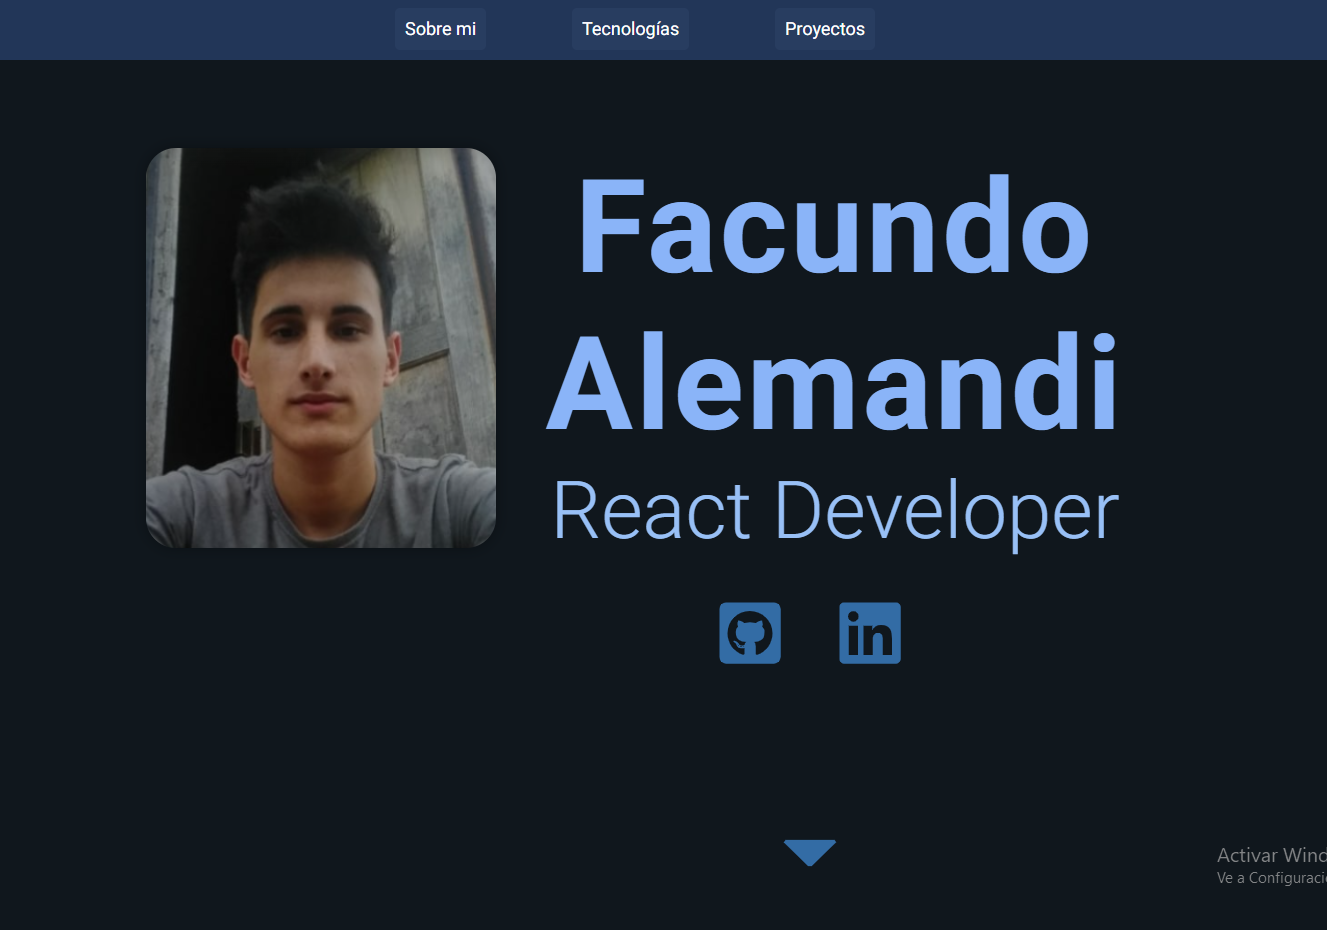
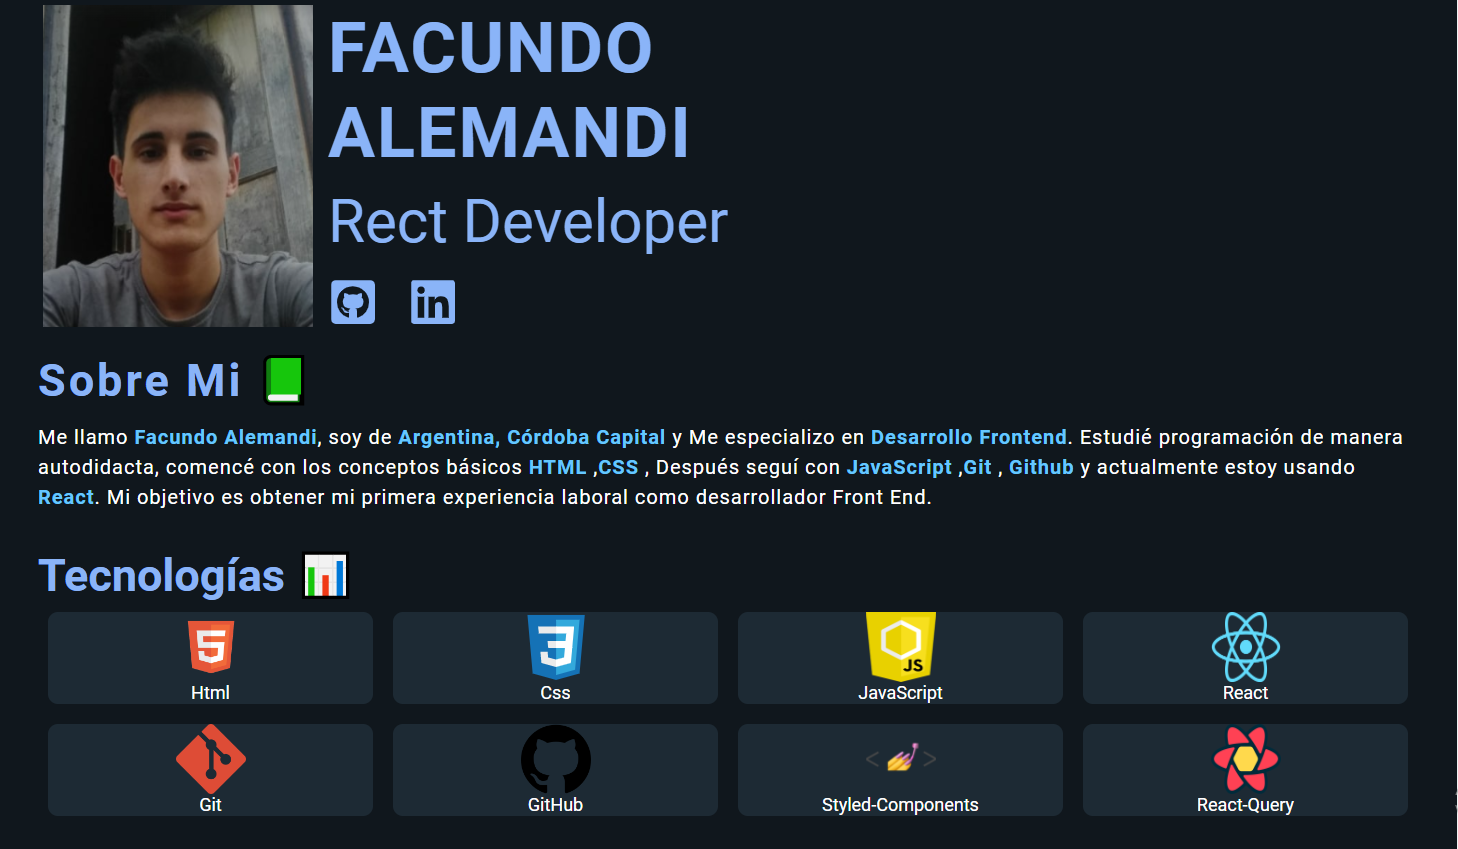
Agregnado elportfolio

diff --git a/src/Projects/Projects.js b/src/Projects/Projects.js
@@ -73,17 +73,17 @@ const theProjects = [
     deploy: "https://facualemandi.github.io/aerolab-commerce/",
     github: "https://github.com/Facualemandi/aerolab-commerce",
   },
-  //   {
-  //     title: "Portfolio",
-  //     img: `${PORTFOLIO}`,
-  //     items: {
-  //       item1: "Hecho para Mobile y Desktop",
-  //       item2: "Hecho con React",
-  //       item3: "Hecho con Styled Components",
-  //     },
-  //     deploy: "https://facualemandi.github.io/aerolab-commerce/",
-  //     github: "https://github.com/Facualemandi/aerolab-commerce",
-  //   },
+    {
+      title: "Portfolio",
+      img: `${PORTFOLIO}`,
+      items: {
+        item1: "Hecho para Mobile y Desktop",
+        item2: "Hecho con React",
+        item3: "Hecho con Styled Components",
+      },
+      deploy: "https://facundo-alemandi-portfolio.vercel.app/",
+      github: "https://github.com/Facualemandi/facundo-alemandi-portfolio",
+    },
 ];
 
 const ContainerAll = styled.section`
